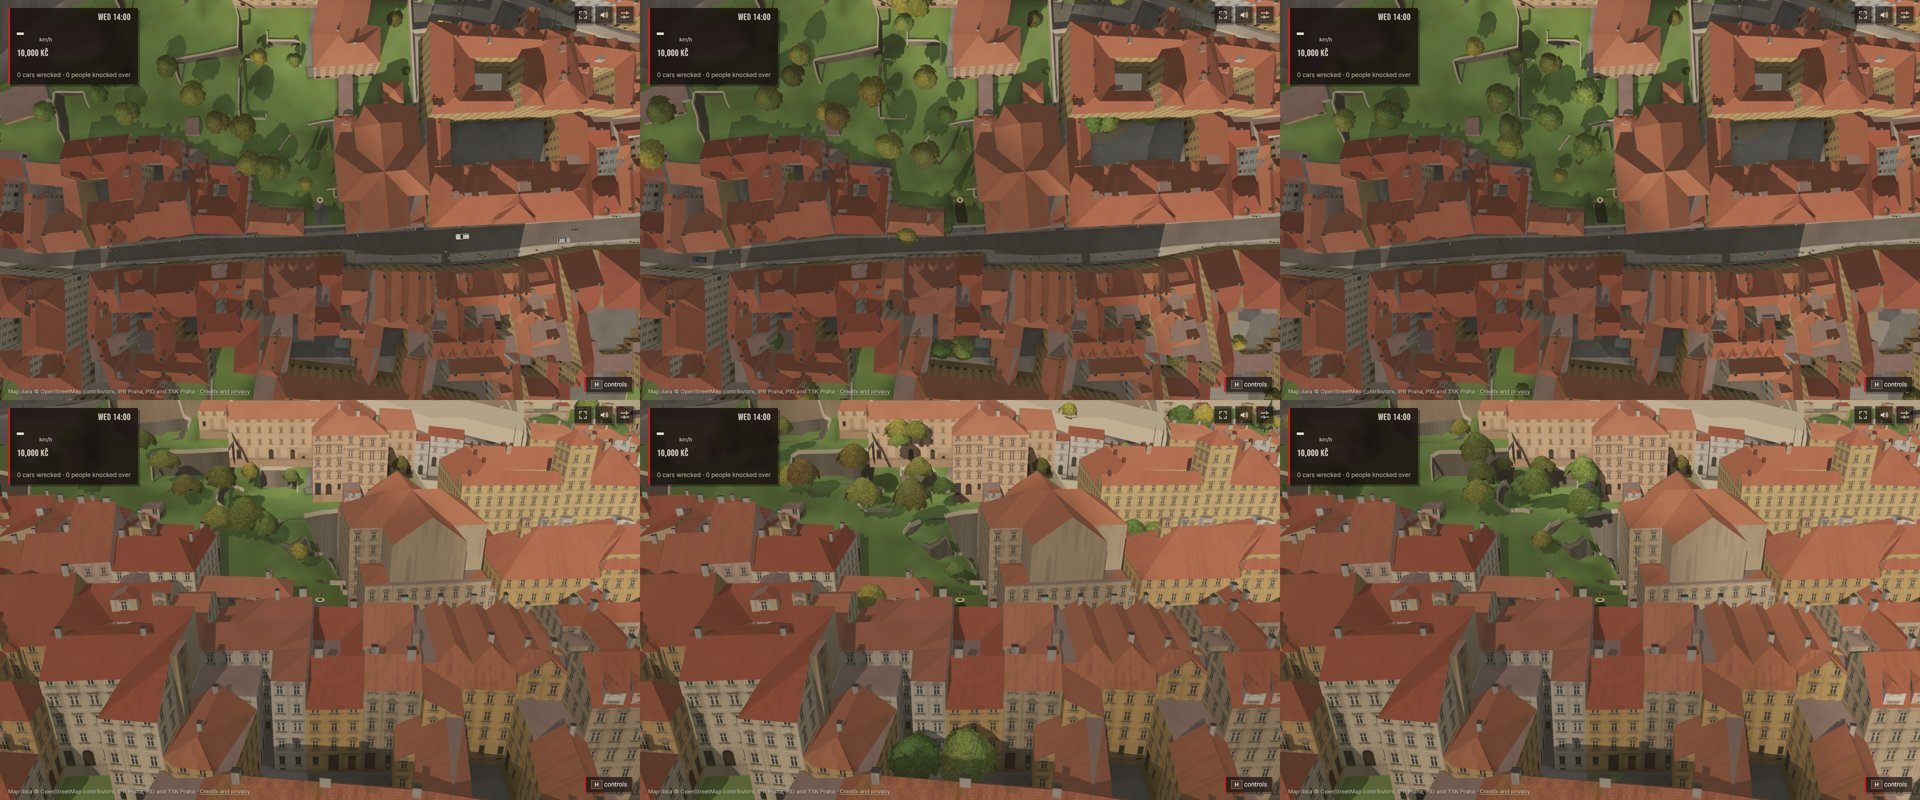
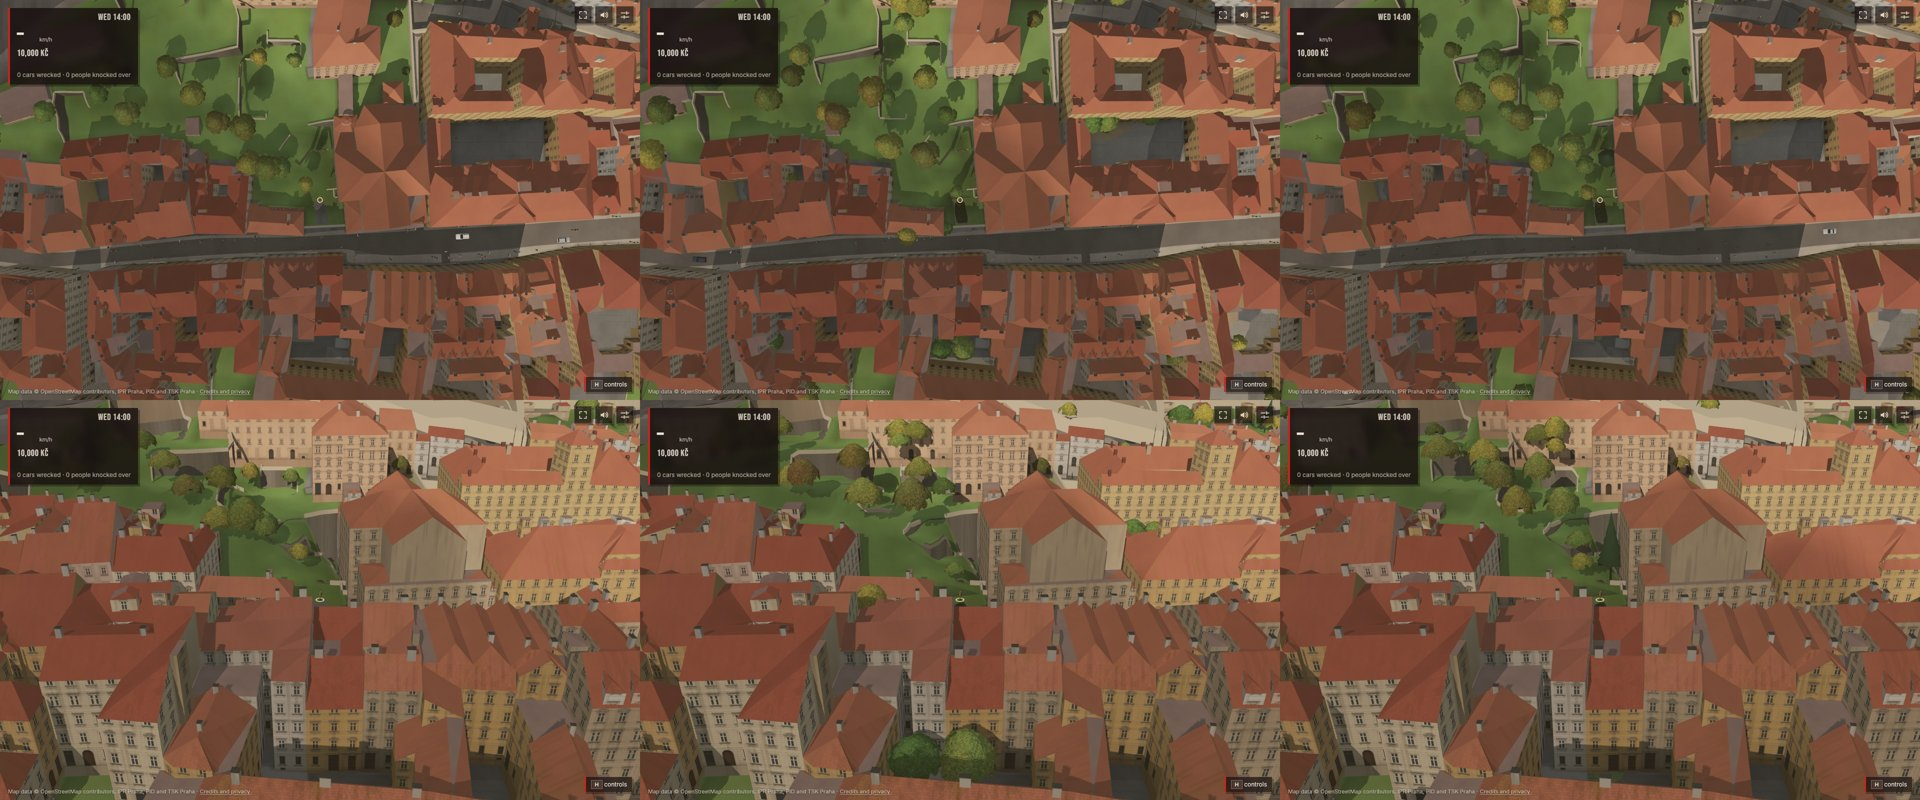
Cover: single trees keep clear of carriageways, not paths; the city build timed
Counting paths as streets removed half of the remaining single trees. The room rule is
now 4 m from buildings and 1 m from a carriageway. The doc has the city build's time on
a clone (40 min on eight processes under load), what it classified, the single-tree
counts, and the class-change rate at tile edges against inside tiles on centrum.

diff --git a/pipeline/ground_cover.py b/pipeline/ground_cover.py
@@ -1014,13 +1014,16 @@ def bare_mask(ext, tiles, res):
 
 
 def near_masks(ext, tiles):
-    """What the bare ground may touch, per cell: buildings, streets, railway and green."""
+    """What the bare ground may touch, per cell: buildings, streets and paths (and the
+    carriageways among them), railway and green."""
     shape_ = grid(ext, CELL)[0].shape
-    out = {k: np.zeros(shape_, bool) for k in ("building", "road", "rail", "green")}
+    out = {k: np.zeros(shape_, bool) for k in ("building", "road", "carriageway", "rail", "green")}
     for t in tiles:
         burn(out["building"], ext, CELL, [b["rings"] for b in t["buildings"]])
-        for polys in t["roads"].values():
+        for kind, polys in t["roads"].items():
             burn(out["road"], ext, CELL, polys)
+            if kind in ("road", "sett", "bridge"):
+                burn(out["carriageway"], ext, CELL, polys)
         for kind in GREEN:
             burn(out["green"], ext, CELL, t["areas"].get(kind, []))
         burn(out["rail"], ext, CELL, t["areas"].get("ballast", []))
@@ -1111,10 +1114,11 @@ def tile_cover(area, meta, t, around=None, fetch=None, infrared=True, model="kep
     areas = cover_cells.polygons(smooth, (x0, y1), t["box"])
     # Single trees: the tops of the canopy over bare ground, except where the canopy is a wood
     # now, and only with room to stand: a crown reaching over a wall into a street or filling a
-    # small courtyard gets no tree (the game's trees are full-grown).
+    # small courtyard gets no tree (the game's trees are full-grown). Over half of the tops
+    # found lie within 2.5 m of a building: the edge of a crown, or of a roof, not a trunk.
     canopy = (P["ndsm"] > 3) & (P["ndvi"] > 0.15) & mask
     room = np.ones(smooth.shape, bool)
-    for kind, least in (("building", cover_cells.ROOM), ("road", 1.5)):
+    for kind, least in (("building", cover_cells.ROOM), ("carriageway", 1.0)):
         if near[kind].any():
             room &= ndimage.distance_transform_edt(~near[kind]) * CELL >= least
     peaks = peak_local_max(np.where(canopy, ndimage.gaussian_filter(P["ndsm"], 2), 0), min_distance=int(4 / RES), threshold_abs=3)

diff --git a/docs/beige-cover-city.md b/docs/beige-cover-city.md
@@ -221,11 +221,29 @@ politely, at `--jobs` requests at a time):
     cd pipeline
     uv run --group cover ground_cover.py build praha --jobs 10
 
-The last full run of the old code took 7 min 51 s on ten processes on an idle machine. A
-tile now costs more (a quarter more pixels, and its neighbours' photographs are opened
-for the margin), and more tiles qualify: expect 20 to 30 minutes plus the new
-downloads. Not measured: the machine was overloaded on the night this was written
-(16 `ujezd` tiles took 243 s on four processes at a load average near 300).
+Timed on a clone of the city's layers (6 October 2026, the map as built on 5 October):
+8,173 tiles looked at (24 more than before the courtyards counted, so hardly any new
+download), 5,784 with cover, 2,353 outside the photographs, every tile worked out:
+**40 min on eight processes**, 154 minutes of processor time, while other builds kept the
+machine's load average between 50 and 190. The first 3 minutes are one process finding
+the tiles with bare ground. On an idle machine with ten processes that should be 15 to
+20 minutes (not measured); the old code took 7 min 51 s, and a tile now costs about
+1.6 s of processor time against 0.18 s (a quarter more pixels, the neighbours'
+photographs opened for the margin, some thirty Gaussian filters). Then `layers.py praha`
+(or the build without `--no-assemble`) puts the cover into the tiles.
+
+What that build gave, against the cover of 5 October: 1,814 ha classified (1,792
+before): dirt 541 (517), trees 455 (437), gravel 449 (494), asphalt 229 (222), grass
+140 (121); the layer file 46.6 MB (53.6). It was run before the last change to single
+trees and gave 20,011 of them against 81,938: more than half of the canopy tops found
+lie within 2.5 m of a building (the edge of a crown or of a roof, not a trunk), and
+those planted trees against walls. With the final rule (4 m from buildings, 1 m from a
+carriageway; paths no longer count) about a third stay, some 27,000 by a sample of 30
+tiles.
+
+Across the 355 tile edges of `centrum`, points 0.6 m apart either side of an edge have
+different classes in 1.33 % of 2,639 pairs; the same step inside tiles changes class
+in 1.51 % of 4,242. An edge is no longer a place where the class changes.
 
 ### Ground outside IPR's photographs: ČÚZK's orthophoto
 

diff --git a/plans/014-classify-courtyard-surfaces.md b/plans/014-classify-courtyard-surfaces.md
@@ -72,8 +72,9 @@ any generation.
 
 ## Result so far (branch `night-beige`, 6 October 2026)
 
-Status: IN PROGRESS. Code is in place and tried on `ujezd`; the city has not been
-rebuilt and nothing was checked in the game.
+Status: IN PROGRESS. Code is in place, built for `ujezd`, `centrum` and (timed, on a
+clone) the city, and looked at in the game on `centrum`. The shared map has not been
+rebuilt with it.
 
 - `ground_cover.py build` now classifies the surveyed courtyards with the plain
   ground (`bare_mask`: `dtm_yard` no longer counts as covered). The courtyard keeps its
